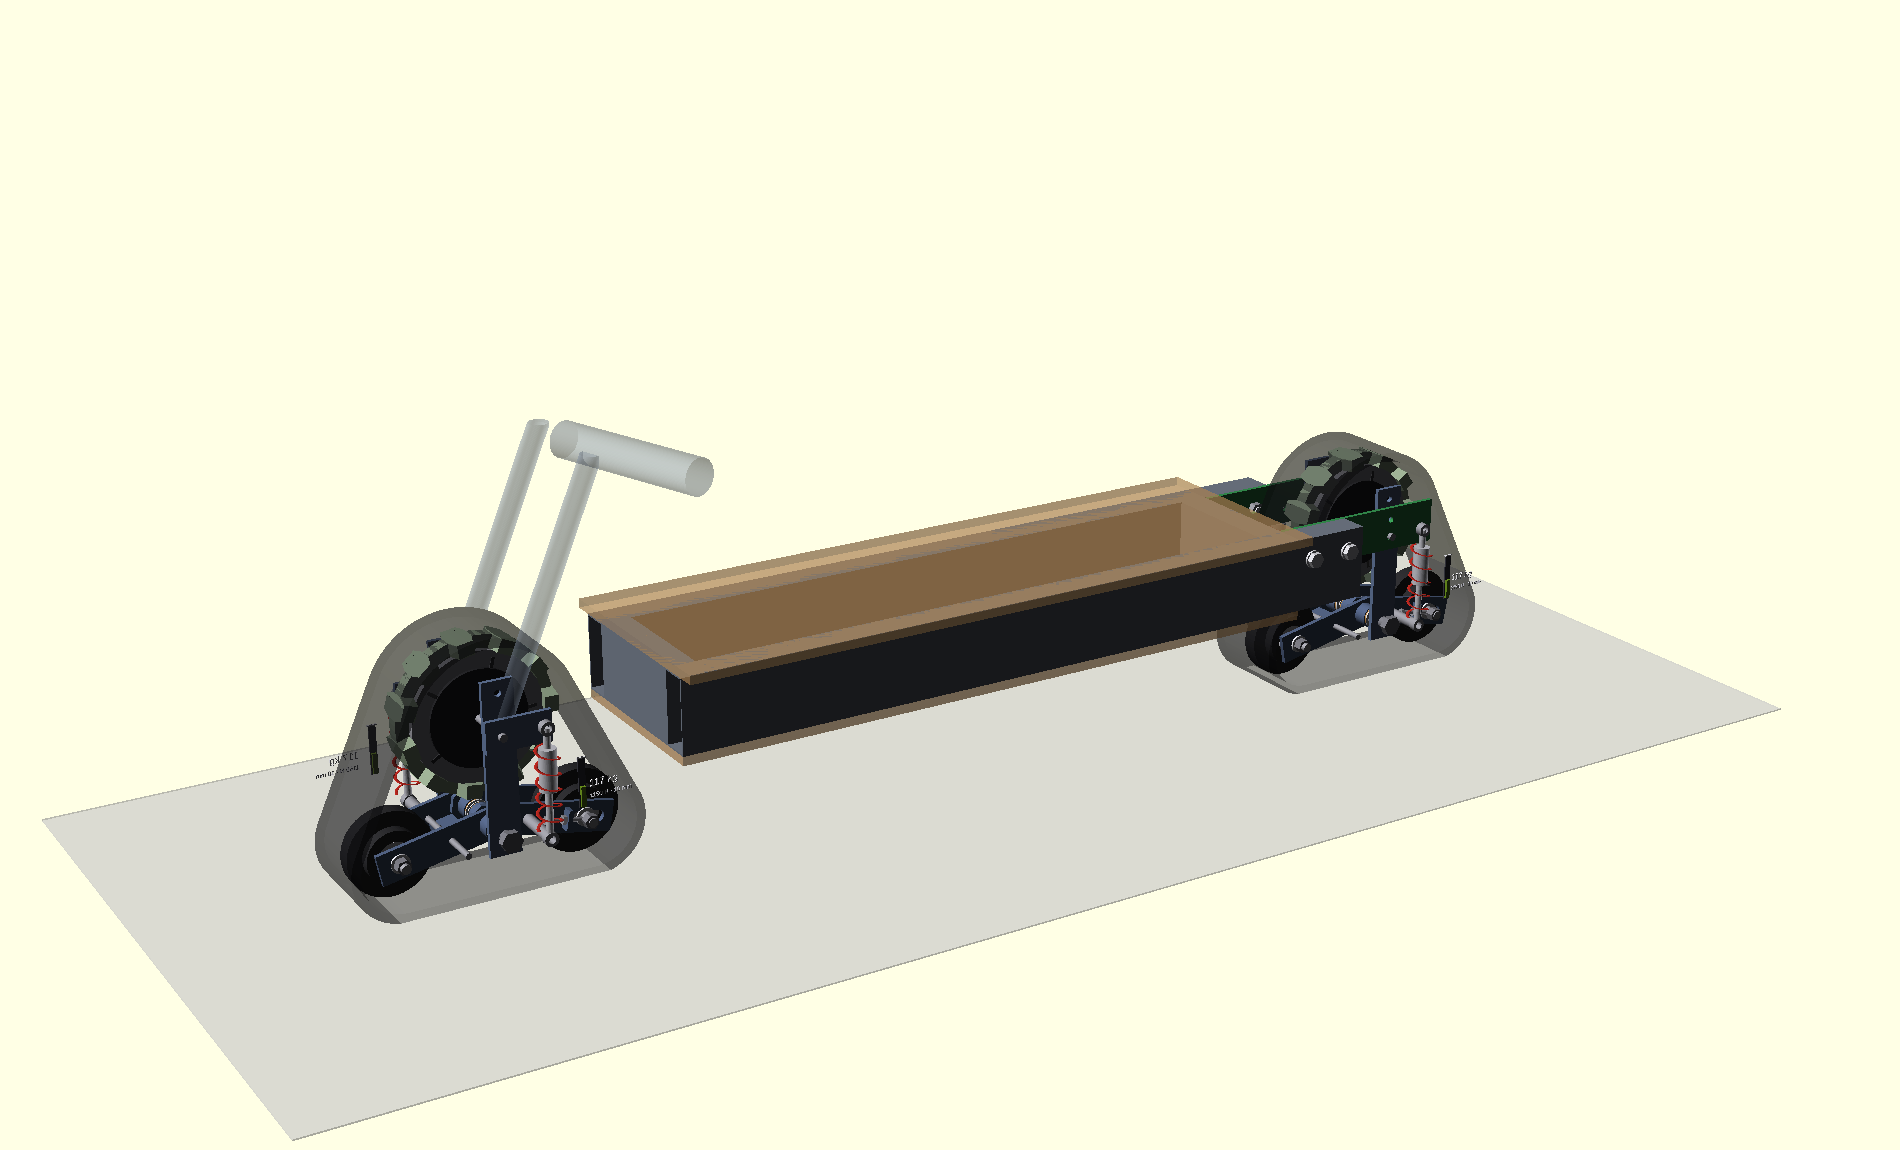
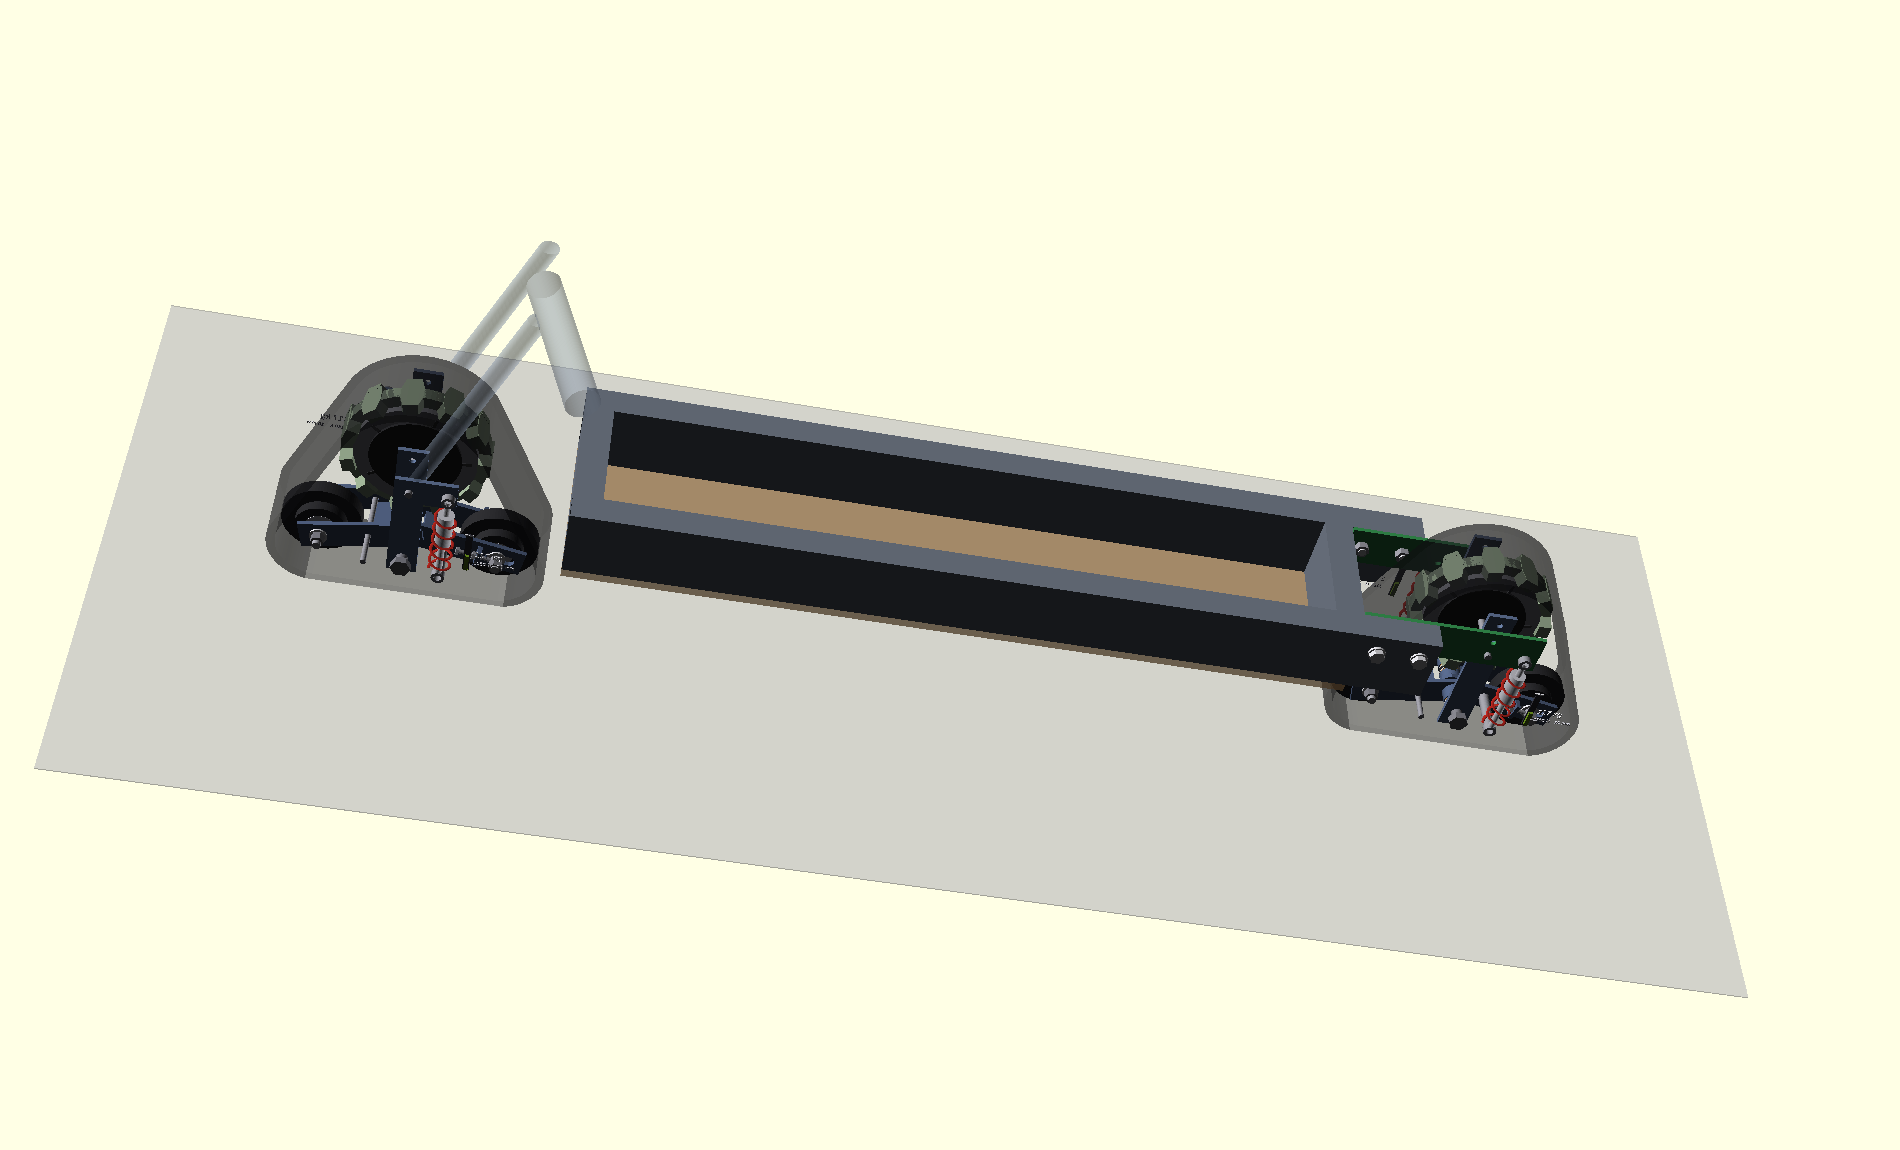
Rev 012: battery bay set to 1000 mm clear
The bay was derived from the two packs alone (840 mm), which left no room for
the controller and wiring. The bay is now its own parameter, bay_len_set = 1000,
floored at what the packs need (bay_pack_len), so it can never be cut shorter
than the batteries. The 160 mm of spare length sits behind the rear pack.

Cascade: wheelbase 1320 -> 1480, rails 1027 -> 1187, lid and tray 920 -> 1080,
chassis 16.2 -> 18.2 kg. A new guard echoes the spare bay length. All chassis
guards still PASS; the only WARNs are the lower shock bolt bending inherited
from Rev 011.

The green plates, plates.dxf and the 1:1 template PDFs are byte-identical -
the rear pod joint does not depend on the bay. Chassis PNGs re-rendered.

diff --git a/archive/rev012-inline-batteries/README.md b/archive/rev012-inline-batteries/README.md
@@ -112,21 +112,28 @@ resize from them. The console echoes derived values (C, travel, motion ratio) ea
 > Built 2026-09-10. **Steel sizes are real (bought); the battery size and the shock's
 > 25 mm neck are measured.** Numbers marked TBD in the `.scad` are still guesses. The
 > front fork → frame link is **not designed yet**.
+>
+> **2026-09-14: the bay is now 1000 mm clear** (was 840, the bare minimum for the two
+> packs). The bay is its own parameter, `bay_len_set`; it can never fall below what the
+> packs need. Wheelbase 1320 → 1480, rails 1027 → 1187, chassis 16.2 → 18.2 kg. All
+> chassis guards still PASS. The green plates and their 1:1 templates are untouched.
 
 ![side view](rev012_chassis_side.png)
 
 | Part | Material | Notes |
 |---|---|---|
-| 2 rails | **100×40×2**, 100 side vertical | 1027 long, **172 apart inside** (252 outside) |
+| 2 rails | **100×40×2**, 100 side vertical | 1187 long, **172 apart inside** (252 outside) |
 | front + rear cross member | **100×40×2** | 172 long, keep the rails square |
 | 2 green plates | **60×6**, no cut | flat on the hub plates (axle key + M8 + weld), flat on the rails' inner faces |
 | 4 sleeves | steel Ø25 × Ø13 × 40 | welded inside the rails, one at each bolt |
 | 4 bolts | M12×65 10.9 + washer · M12 nut welded on the green plate | **the whole rear pod comes off with these 4** |
 | 2 batteries | 400 × 110 × 80 (measured) | **one behind the other**, 62 mm spare in width, 20 above |
-| lid / tray | plywood 12 mm (TBD) | lid 920 × 302 · standing height **269** · lowest point 145 |
+| lid / tray | plywood 12 mm (TBD) | lid 1080 × 302 · standing height **269** · lowest point 145 |
 
-**Wheelbase 1320 mm — derived from the batteries** (front cross member at 210 + bay 840
-+ two cross members + 190 to the rear axle). Chassis ≈ **16.2 kg**: steel 12.5 + plywood 3.7.
+**Bay 1000 mm clear** (`bay_len_set`). The two packs only need 840, so **160 mm stays free
+behind the rear pack** for the controller and wiring. **Wheelbase 1480 mm** = front cross
+member at 210 + bay 1000 + two cross members + 190 to the rear axle. Chassis ≈ **18.2 kg**:
+steel 13.9 + plywood 4.3.
 
 ![3/4 view](rev012_chassis_3q.png) ![top view, lid off](rev012_bay_top.png)
 
@@ -171,12 +178,12 @@ left are the lower shock bolt (below).
 
 | Material | Part | Qty × size |
 |---|---|---|
-| 100×40×2 | rails | 2 × 1027 |
-| 100×40×2 | front + rear cross members | 2 × 172 — **2398 mm total** |
+| 100×40×2 | rails | 2 × 1187 |
+| 100×40×2 | front + rear cross members | 2 × 172 — **2718 mm total** |
 | 60×6 | green plate RIGHT (rear shock eye) | 1 × 260 |
 | 60×6 | green plate LEFT (front shock eye) | 1 × 208 — **468 mm total** |
 | steel bar/tube | sleeves Ø25 × Ø13 | 4 × 40 |
-| plywood 12 mm | lid · tray | 920 × 302 · 920 × 252 |
+| plywood 12 mm | lid · tray | 1080 × 302 · 1080 × 252 |
 | hardware | M12×65 10.9 + washer · M12 weld nut · M8 plate → hub plate | 4 · 4 · 2 |
 
 **Rear-pod hub plates:** drill one extra Ø8.4 at **44 mm from the top end** (between the fork

diff --git a/README.md b/README.md
@@ -8,7 +8,7 @@ files live in the per-revision folders. Every future change lands in the live re
 **[`archive/rev012-inline-batteries/`](archive/rev012-inline-batteries/) — Rev 012, live.** The pod is
 Rev 011 (below, unchanged). Rev 012 adds the scratch-built **narrow frame**: two 100×40×2 rails bolted
 straight onto the rear pod's 60×6 green plates (4× M12), the two 400×110×80 batteries in line between
-them, wheelbase 1320, chassis ~16 kg. `render_mode="chassis"`; printable green-plate templates:
+them in a 1000 mm clear bay, wheelbase 1480, chassis ~18 kg. `render_mode="chassis"`; printable green-plate templates:
 `rev012_green_plate_templates.pdf`.
 
 **Pod — Rev 011** (source folder [`archive/rev011-uncut-11T-lowB/`](archive/rev011-uncut-11T-lowB/)):
